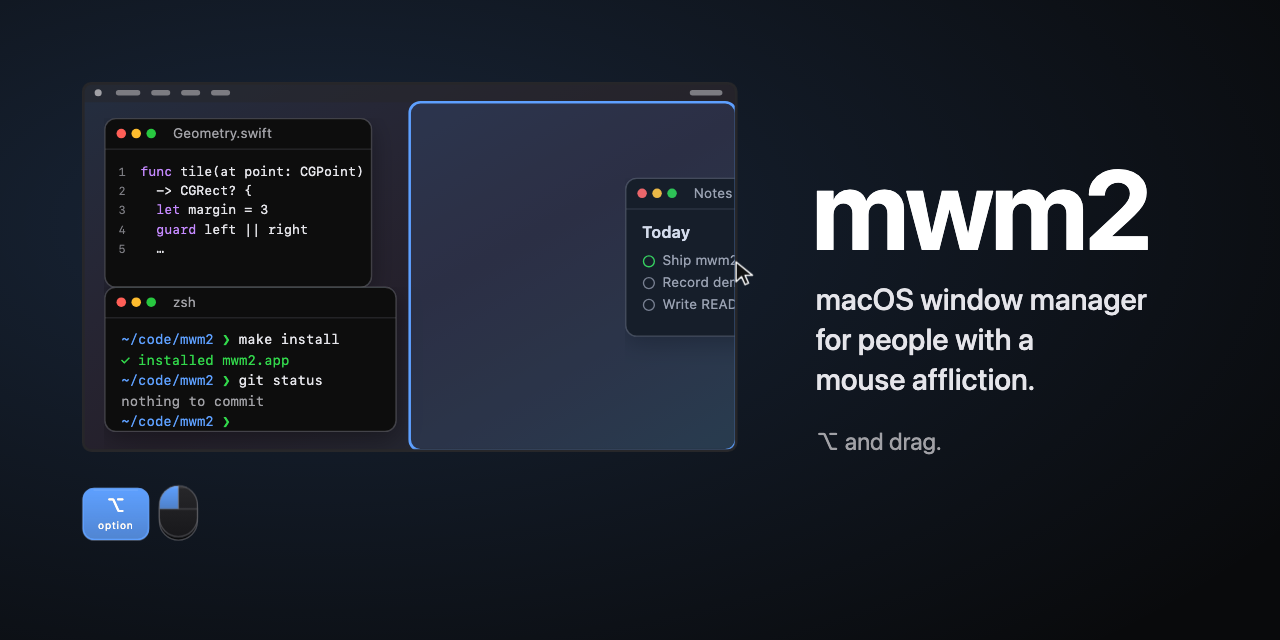
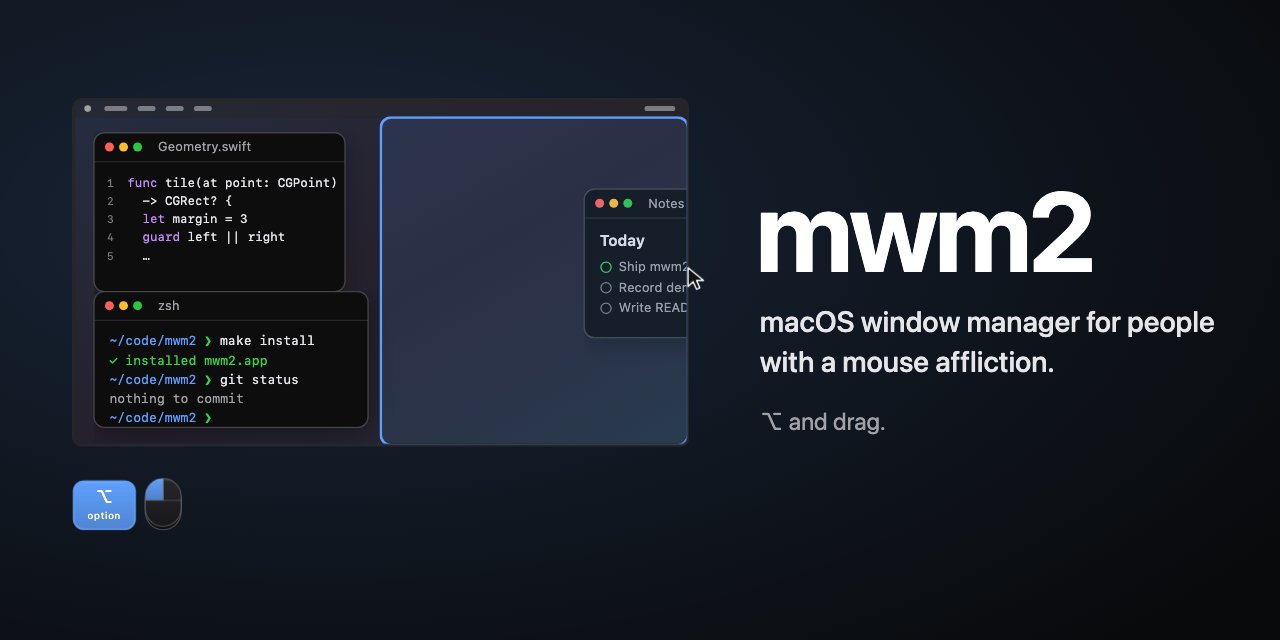
Social preview: tagline on two lines

Changed region(s): [[0.0625, 0.125, 0.9688, 0.7188], [0.0312, 0.75, 0.1562, 0.8438]]

diff --git a/docs/scenes/social.tsx b/docs/scenes/social.tsx
@@ -50,18 +50,17 @@ export default () => {
     <>
       <rect width={1280} height={640} fill={T.base00} />
       <rect width={1280} height={640} fill={wash} />
-      <g transform="translate(56 56) scale(1.36)">
+      <g transform="translate(48 74) scale(1.28)">
         <Stage s={s} duration={duration} background={false} />
       </g>
-      <text x={812} y={250} fontFamily={sans} fontSize={112} fontWeight={700} letterSpacing={-3} fill={T.base07}>
+      <text x={756} y={272} fontFamily={sans} fontSize={112} fontWeight={700} letterSpacing={-3} fill={T.base07}>
         mwm2
       </text>
-      <text x={816} y={310} fontFamily={sans} fontSize={30} fontWeight={500} fill={T.base05}>
-        <tspan x={816}>macOS window manager</tspan>
-        <tspan x={816} dy={40}>for people with a</tspan>
-        <tspan x={816} dy={40}>mouse affliction.</tspan>
+      <text x={760} y={332} fontFamily={sans} fontSize={29} fontWeight={500} fill={T.base05}>
+        <tspan x={760}>macOS window manager for people</tspan>
+        <tspan x={760} dy={40}>with a mouse affliction.</tspan>
       </text>
-      <text x={816} y={450} fontFamily={sans} fontSize={24} fill={T.base04}>
+      <text x={760} y={430} fontFamily={sans} fontSize={24} fill={T.base04}>
         ⌥ and drag.
       </text>
     </>,
